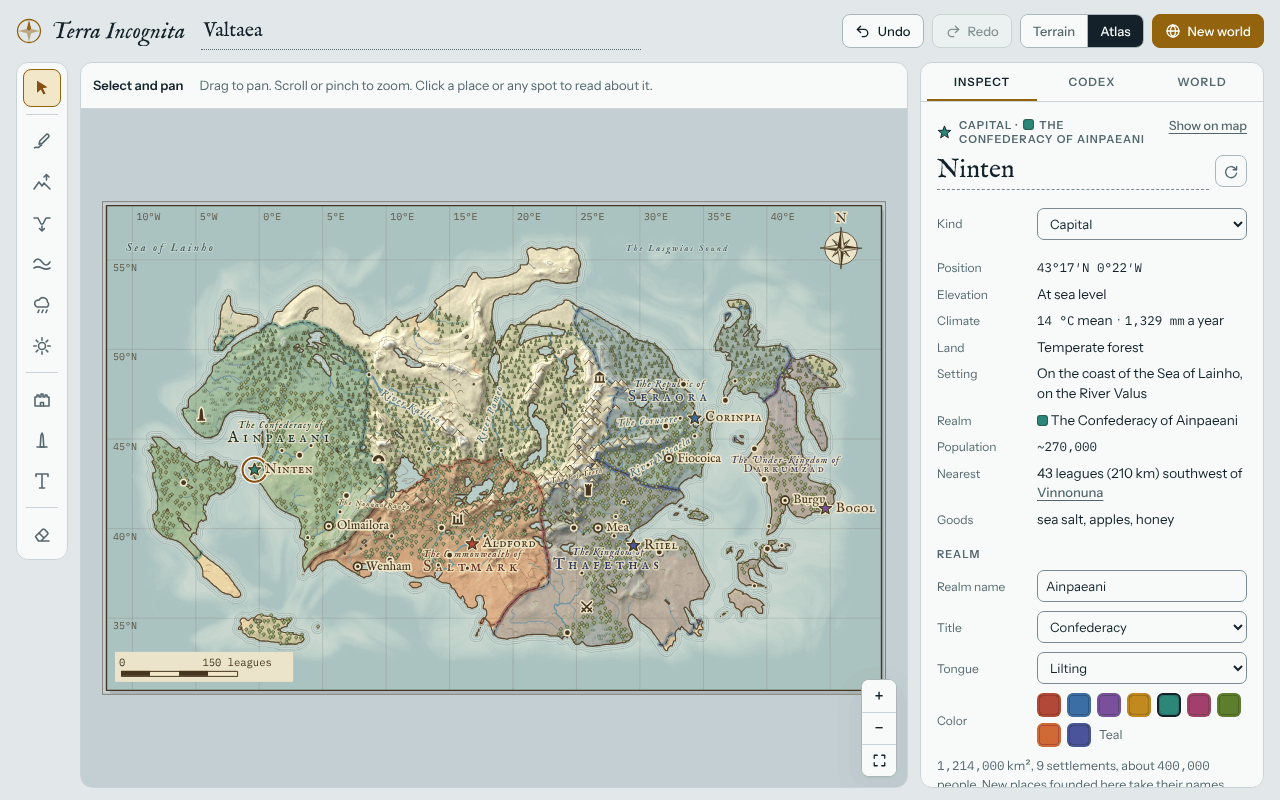
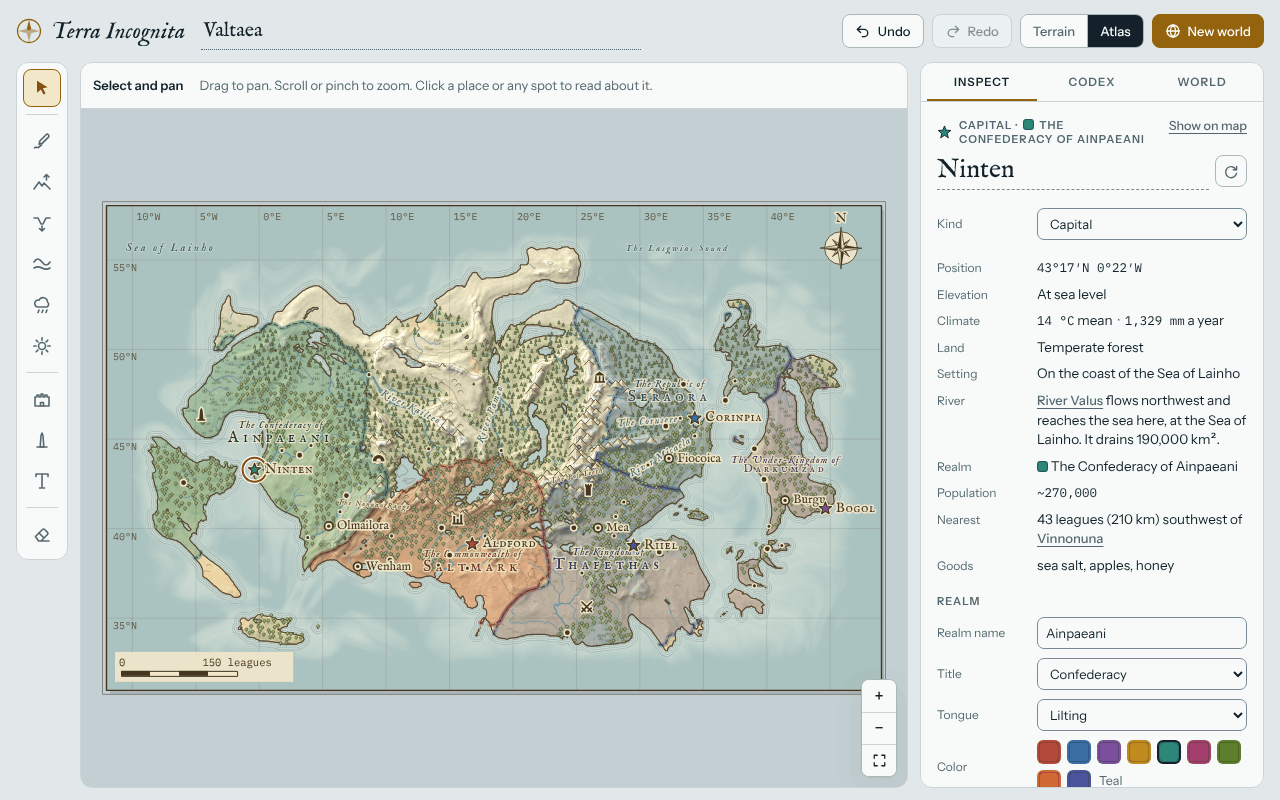
Give a place on a river a River line: which way it flows, where it reaches the sea, what it drains
A place's page said only 'Inland, on the Caelea', so nothing said why water goes where it does. A place or spot on a
river now has a River line: 'River Pameo flows southwest and reaches the sea, 85 leagues (410 km) on. It drains 440,000
km².' It names the first lake the river runs through and the sea it reaches when they have names, and says when the
river runs off the edge of the map. The river's name opens the spot at its mouth. Setting no longer repeats the river.
A drawn river turned round because its line ran uphill now says 'Water runs downhill, so it flows toward the sea end of
your line.' (or the lower end, inland). Claude's history prompt gets the same line. Answers Mark's question on a River
line on a place's page.

Claude-Session: https://claude.ai/code/session_01PQbLNV8yuVmPjyBMzr2F36

diff --git a/js/app.js b/js/app.js
@@ -156,7 +156,7 @@ const ui = {
 };
 const D = {
   biome: new Uint8Array(N), temp: new Float32Array(N), tN: new Float32Array(N),
-  filled: new Float32Array(N), down: new Int32Array(N), acc: new Float32Array(N), order: new Int32Array(N), lake: new Uint8Array(N), lakeF: new Float32Array(N),
+  filled: new Float32Array(N), down: new Int32Array(N), acc: new Float32Array(N), area: new Float32Array(N), order: new Int32Array(N), lake: new Uint8Array(N), lakeF: new Float32Array(N),
   vis: new Uint8Array(N), isR: new Uint8Array(N), hasUp: new Uint8Array(N), mouth: new Int32Array(N), body: new Int32Array(N),
   owner: new Int16Array(N), cost: new Float64Array(N), ind: new Float32Array(N), tmp: new Float32Array(N), dist: new Int16Array(N), q: new Int32Array(N),
   realms: [], borders: [], coast: new Path2D(), contours: null, riverPaths: [], riverLabels: [], glyphs: [], riverNames: new Map(),
@@ -271,10 +271,11 @@ function hydrology() {
       vis[n] = 1; const f = h[n] > key + 1e-6 ? h[n] : key + 1e-6; filled[n] = f; down[n] = c; order[cnt++] = n; heap.push(f, n);
     }
   }
-  acc.fill(0);
-  for (let i = 0; i < N; i++) if (h[i] >= sea) acc[i] = 0.25 + world.m[i];
+  // acc is the water each cell carries; area, the cells of land that drain through it, itself included.
+  const area = D.area; acc.fill(0); area.fill(0);
+  for (let i = 0; i < N; i++) if (h[i] >= sea) { acc[i] = 0.25 + world.m[i]; area[i] = 1; }
   for (const sp of world.springs || []) { const i = cellAt(sp.x, sp.y); if (h[i] >= sea) acc[i] += sp.flow; }
-  for (let k = cnt - 1; k >= 0; k--) { const i = order[k], d = down[i]; if (d >= 0 && h[d] >= sea) acc[d] += acc[i]; }
+  for (let k = cnt - 1; k >= 0; k--) { const i = order[k], d = down[i]; if (d >= 0 && h[d] >= sea) { acc[d] += acc[i]; area[d] += area[i]; } }
   for (let i = 0; i < N; i++) { const l = (h[i] >= sea && filled[i] - h[i] > LAKE_MIN) ? 1 : 0; D.lake[i] = l; D.lakeF[i] = l; }
 }
 
@@ -2120,7 +2121,7 @@ function sketchRiver(raw) {
   let c = at(last), toSea = h[c] < sea;
   for (let k = 0; k < 6 && !toSea && D.down[c] >= 0; k++) { c = D.down[c]; toSea = h[c] < sea; }
   const inland = toSea ? '' : ' It ends inland, so it finds its own way on from there.', drew = `Drew ${drawnRiver(cellAt(pts[2 * first], pts[2 * first + 1]))}.`;
-  toast(leftOut ? drew + ' The line crossed the sea, so only its longest stretch of land became a river.' : reversed ? drew + ' It flows downhill from the end of your line.' + inland : drew + inland, { label: 'Undo', fn: undo });
+  toast(leftOut ? drew + ' The line crossed the sea, so only its longest stretch of land became a river.' : reversed ? drew + ` Water runs downhill, so it flows toward the ${toSea ? 'sea' : 'lower'} end of your line.` + inland : drew + inland, { label: 'Undo', fn: undo });
 }
 // What a drawn river is called, from its source: 'the River Bahar', or where it runs into a bigger river on its way to
 // the sea, 'a tributary of the River Bahar' (a river is named after its mouth, its tributaries too).
@@ -2535,7 +2536,7 @@ function facts(x, y, self) {
   f.owner = D.owner[i]; f.realm = f.owner >= 0 ? D.realms[f.owner] : null;
   f.coastal = !water && nearWater(i, 2);
   f.river = null;
-  if (!water) { let best = -1, ba = RIVER_T; const cx = i % W, cy = (i / W) | 0; for (let dy = -1; dy <= 1; dy++) for (let dx = -1; dx <= 1; dx++) { const nx = cx + dx, ny = cy + dy; if (nx < 0 || ny < 0 || nx >= W || ny >= H) continue; const j = ny * W + nx; if (D.isR[j] && D.acc[j] > ba) { ba = D.acc[j]; best = j; } } if (best >= 0) f.river = riverName(mouthOf(best)); }
+  if (!water) { let best = -1, ba = RIVER_T; const cx = i % W, cy = (i / W) | 0; for (let dy = -1; dy <= 1; dy++) for (let dx = -1; dx <= 1; dx++) { const nx = cx + dx, ny = cy + dy; if (nx < 0 || ny < 0 || nx >= W || ny >= H) continue; const j = ny * W + nx; if (D.isR[j] && D.acc[j] > ba) { ba = D.acc[j]; best = j; } } if (best >= 0) { f.river = riverName(mouthOf(best)); f.riverAt = best; } }
   let nb = null, nd = Infinity; for (const p of world.places) { if (p === self) continue; const d = Math.hypot(p.x - x, p.y - y); if (d < nd) { nd = d; nb = p; } }
   f.near = nb ? { p: nb, leagues: Math.max(1, Math.round(nd * KM / LEAGUE)), km: roundSig(nd * KM, 2), dir: compass(x - nb.x, y - nb.y) } : null;
   const seaName = f.coastal && nearestSeaLabel(x, y, bodiesNear(i, 2)); f.sea = seaName ? seaInText(seaName) : null;
@@ -2552,6 +2553,28 @@ function facts(x, y, self) {
   }
   return f;
 }
+// Where a river goes from one of its cells, as its line on a page has it: 'flows southeast through Lake Vool and reaches
+// the sea at the Gulf of Lainho, 40 leagues (192 km) on. It drains 12,000 km².' The way it flows is taken a few cells
+// on, the distance is along its bed to its mouth, and what it drains is all the land upstream of its mouth.
+function riverWay(c) {
+  const h = world.h, sea = world.sea; let cur = c, dist = 0, lake = -1, end = 'edge', ahead = c;
+  for (let g = 0; g < 5000; g++) {
+    const d = D.down[cur]; if (d < 0) break;
+    if (g < 3) ahead = d;
+    if (h[d] < sea) { end = 'sea'; break; }
+    dist += Math.hypot(d % W - cur % W, ((d / W) | 0) - ((cur / W) | 0));
+    if (D.lake[d] && lake < 0) lake = d;
+    cur = d;
+  }
+  const lg = Math.round(dist * KM / LEAGUE), on = lg ? `, ${lg} league${lg === 1 ? '' : 's'} (${fmtInt(roundSig(dist * KM, 2))} km) on` : '';
+  const flows = ahead !== c ? `flows ${compass(ahead % W - c % W, ((ahead / W) | 0) - ((c / W) | 0))} ` : '';
+  let lakeName = 'a lake';
+  if (lake >= 0) { const cells = lakeCells(lake), l = world.labels.find(l => l.kind === 'sea' && cells.has(cellAt(l.x, l.y))); if (l) lakeName = seaInText(l.text); }
+  const seaName = end === 'sea' && nearestSeaLabel(cur % W + 0.5, ((cur / W) | 0) + 0.5, new Set([D.body[D.down[cur]]]));
+  const ends = end === 'sea' ? (lg ? `reaches the sea${seaName ? ` at ${seaInText(seaName)}` : ''}${on}` : `reaches the sea here${seaName ? `, at ${seaInText(seaName)}` : ''}`)
+    : lg ? `runs off the edge of the map${on}` : 'runs off the edge of the map here';
+  return `${flows}${lake >= 0 ? `through ${lakeName} and ` : flows ? 'and ' : ''}${ends}. It drains ${fmtInt(roundSig(D.area[cur] * KM * KM, 2))} km².`;
+}
 function factsHTML(f, p) {
   const rows = [];
   rows.push(['Position', `<span class="mono">${fmtPos(f.x, f.y)}</span>`]);
@@ -2564,9 +2587,10 @@ function factsHTML(f, p) {
     rows.push(['Land', esc(f.biome)]);
     const bits = [f.coastal ? `On the coast of ${esc(f.sea || 'the sea')}` : f.lakeside ? (f.lakeName ? `On the shore of ${esc(f.lakeName)}` : 'On a lake shore') : 'Inland'];
     if (f.coastal && f.lakeside) bits.push(`by ${f.lakeName ? esc(f.lakeName) : 'a lake'}`);
-    if (f.river) bits.push(`on ${esc(f.river.on)}`);
     rows.push(['Setting', bits.join(', ')]);
   }
+  // The river's name goes to its mouth.
+  if (f.river) { const m = mouthOf(f.riverAt); rows.push(['River', `<button class="link" data-mouth="${m}">${esc(f.river.full)}</button> ${esc(riverWay(f.riverAt))}`]); }
   // The realm's name goes to its capital's page, where it is renamed and recoloured; on the capital itself it is text.
   const rname = f.realm && `<span data-realm="${f.realm.place.id}">${esc(f.realm.display)}</span>`;
   rows.push([f.water || f.lake ? 'Waters of' : 'Realm', f.realm ? `<span class="swatch" style="background:${f.realm.color}"></span> ${p === f.realm.place ? rname : `<button class="link" data-goto="${f.realm.place.id}">${rname}</button>`}` : (f.water || f.lake ? 'No realm' : 'Unclaimed')]);
@@ -2650,7 +2674,7 @@ function buildPrompt(p) {
   L.push(`Terrain: ${f.biome}, ${fmtInt(Math.max(0, f.E))} m above sea level, mean temperature ${Math.round(f.temp)} °C, ${fmtInt(f.precip)} mm of rain a year.`);
   if (f.coastal) L.push(`It sits on the coast of ${f.sea || 'the sea'}.`);
   if (f.lakeside) L.push(`It sits on the shore of ${f.lakeName || 'a lake'}.`);
-  if (f.river) L.push(`It sits on ${f.river.on}.`);
+  if (f.river) L.push(`It sits on ${f.river.on}, which ${riverWay(f.riverAt).replace('. It drains', ', and drains')}`);
   if (f.goods.length) L.push(`Local goods: ${f.goods.join(', ')}.`);
   if (c.nearby.length) { L.push('Nearby:'); for (const n of c.nearby) L.push(`- ${n.q.name} (${kindLabel(n.q).toLowerCase()}), ${leagues(n.d)} ${compass(n.q.x - p.x, n.q.y - p.y)}`); }
   if (D.realms.length) L.push(`Realms of this world: ${D.realms.map(r => r.display).join('; ')}.`);
@@ -2696,6 +2720,8 @@ function renderInspector() {
 function bindGotos(pane) {
   pane.querySelectorAll('[data-goto]').forEach(b => b.onclick = () => { const p = world.places.find(q => q.id === +b.dataset.goto); if (p) { select({ type: 'place', id: p.id }); centerOn(p.x, p.y); refocus('#pTitle'); } });
   bindToolLinks(pane, '#pane-inspect [data-goto]');
+  // A river's name shows its mouth, and that spot's page.
+  pane.querySelectorAll('[data-mouth]').forEach(b => b.onclick = () => { const m = +b.dataset.mouth, x = m % W + 0.5, y = ((m / W) | 0) + 0.5; select({ type: 'loc', x, y }); centerOn(x, y); mapIntoView(); refocus('#showOnMap'); });
   // Show on map centres the map on what this page is about, and on a phone, where the map can be scrolled away above
   // the page, brings it into view.
   const show = $('#showOnMap', pane); if (show) show.onclick = () => { const o = findSel(ui.selected); if (o) { centerOn(o.x, o.y); mapIntoView(); } };

diff --git a/sw.js b/sw.js
@@ -9,7 +9,7 @@
 // fingerprint of every file in SHELL: change any of them and test/e2e.mjs fails until FILES is changed to match (it
 // says what to), which changes this file, so every copy is made whole again at once.
 const CACHE = 'terra-incognita-v3'; // bump the number when the file list changes
-const FILES = '5328be69'; // test/e2e.mjs checks this
+const FILES = 'ab85e0f7'; // test/e2e.mjs checks this
 const SHELL = [
   './', 'index.html', 'css/app.css', 'js/app.js', 'js/edge-guard.js', 'manifest.webmanifest', 'icon.svg',
   'icon-180.png', 'icon-192.png', 'icon-512.png', 'icon-512-maskable.png',

diff --git a/README.md b/README.md
@@ -30,10 +30,11 @@ and sea stop them. Every town has a page for its story.
   rainfall in millimetres a year. Fourteen kinds of land, from ice sheet to jungle.
 - **Realms.** A capital claims the land around it until hills, deserts and sea make going further too costly, and its
   towns push the border out. Each realm has its own tongue, so towns founded inside it sound like they belong there.
-- **Places.** Tap any town or patch of ground to see its position, elevation, climate, river, nearest neighbour and
-  local goods, with distances in leagues of 4.8 km. Keep notes for your lore, or roll a rumor built from the map around
-  it. From the keyboard, Tab to the map, pan it with the arrow keys and press Enter to read the spot in the middle. The
-  Codex lists every place and every sea, region and range named on the map, and finds words in your notes.
+- **Places.** Tap any town or patch of ground to see its position, elevation, climate, nearest neighbour and local
+  goods, with distances in leagues of 4.8 km, and its river: which way it flows, how far on it reaches the sea and how
+  much land it drains. Keep notes for your lore, or roll a rumor built from the map around it. From the keyboard, Tab
+  to the map, pan it with the arrow keys and press Enter to read the spot in the middle. The Codex lists every place
+  and every sea, region and range named on the map, and finds words in your notes.
 - **Keyboard.** Every tool has a letter (V, P, R…), [ and ] size the brush, F shows the whole map, and Ctrl S saves
   the world file; the World tab lists them.
 - **Two looks.** Terrain is shaded relief; Atlas is parchment with drawn mountains and trees. A world file opens in
